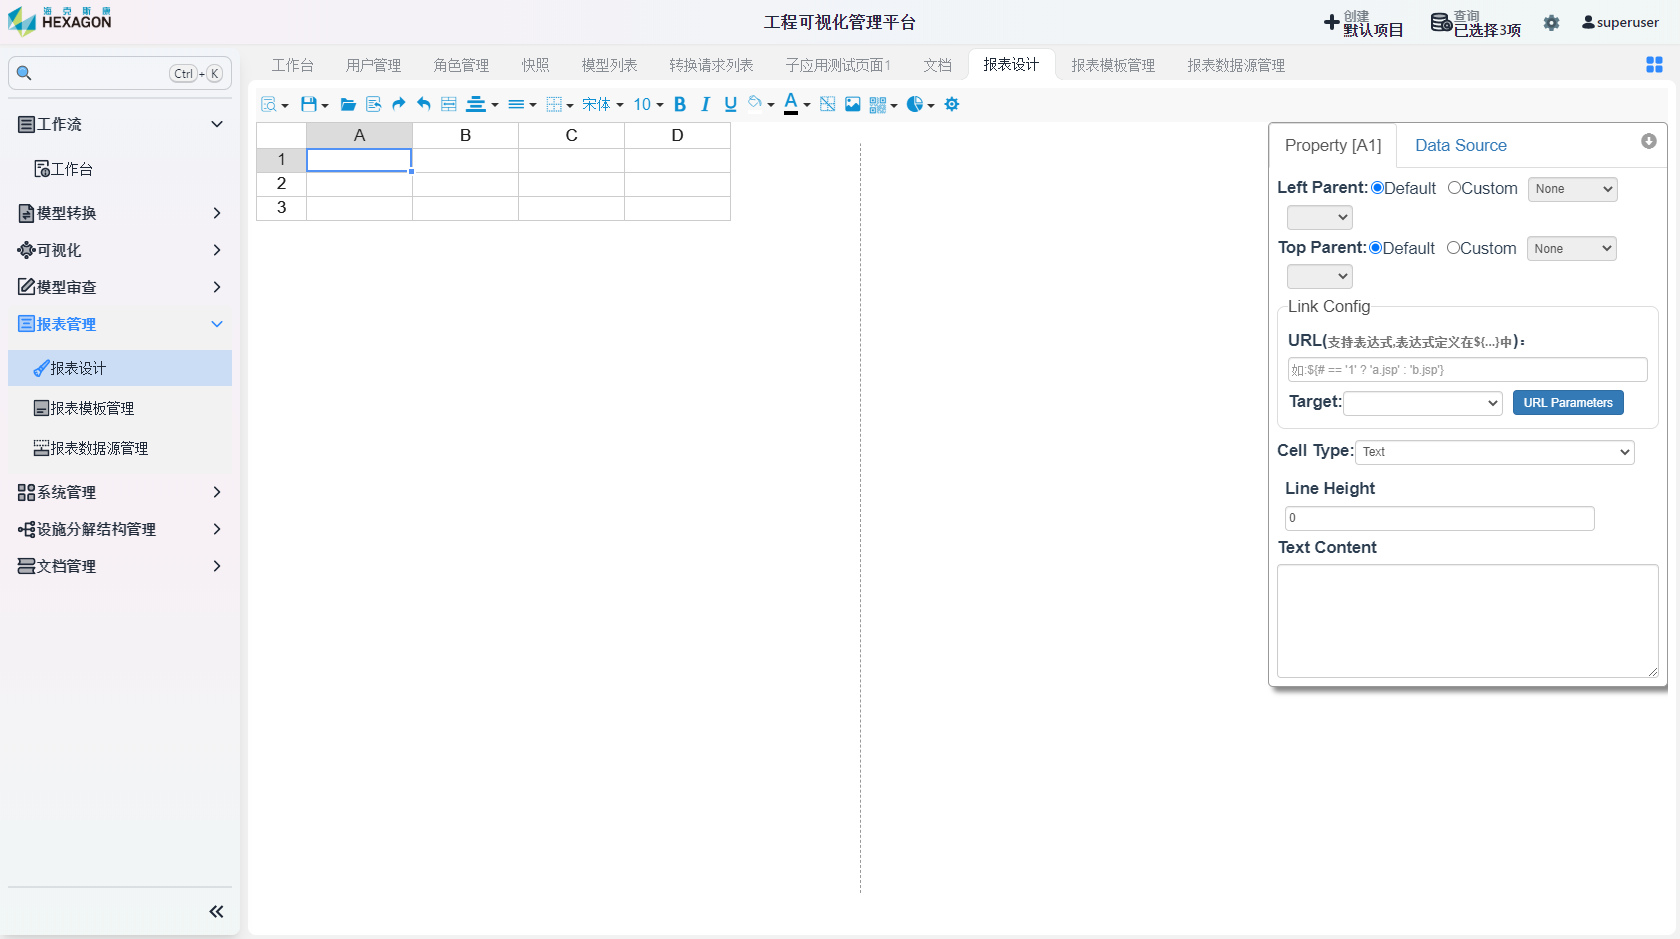
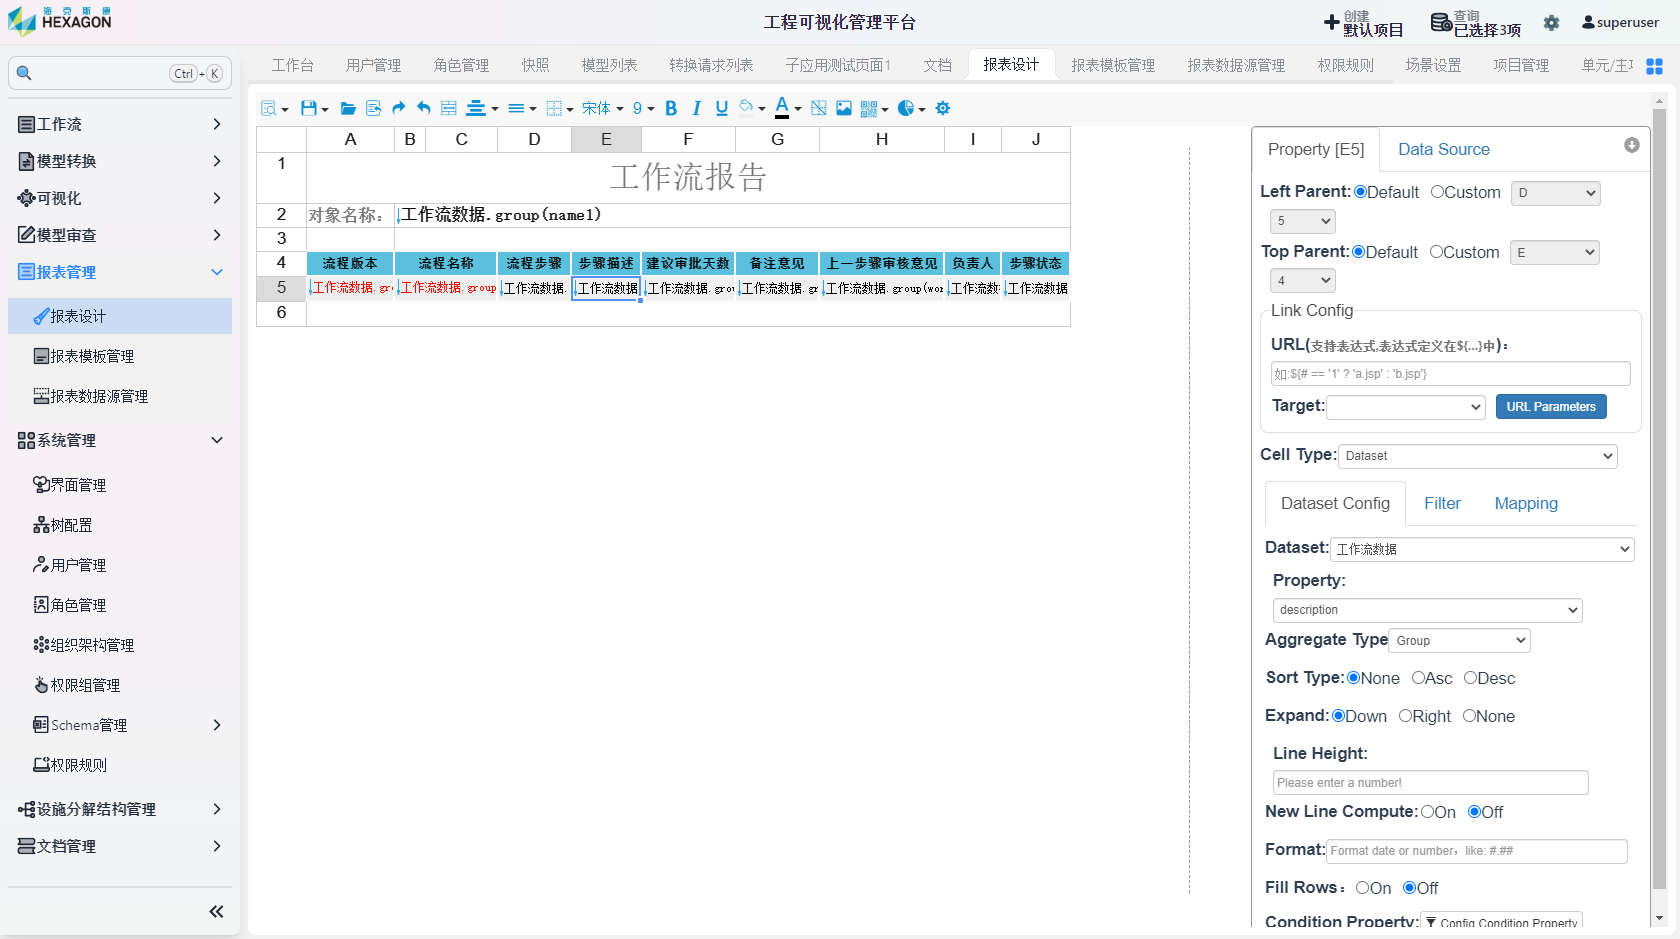
补充报告&报表

diff --git a/报告&报表引擎/用户手册.html b/报告&报表引擎/用户手册.html
@@ -598,7 +598,7 @@ header, .context-menu, .megamenu-content, footer{
 <p align="center">
     <a href="http://imc.smartsolutions.com.cn/login"></a>
     <a href="http://imc.smartsolutions.com.cn/login"><img src="https://img.shields.io/badge/IMC-v3.5.0-brightgreen.svg"></a>	
-</p><h2 id='报表管理模块'><span>报表管理模块</span></h2><h3 id='报表设计'><span>报表设计</span></h3><p><img src="../img/报表设计入口.png" referrerpolicy="no-referrer"></p><p><span>点击</span><code>报表管理</code><span>-</span><code>报表设计</code></p><p><img src="../img/保存报表.png" referrerpolicy="no-referrer"></p><p><span>完成后点击左上角保存按钮，填写保存信息</span></p><h3 id='报表模板管理'><span>报表模板管理</span></h3><p><img src="../img/报表模板.png" referrerpolicy="no-referrer"></p><p><span>保存的报表设计在此处进行管理，左键打开查看，右键编辑或删除</span></p><h3 id='报表数据源管理'><span>报表数据源管理</span></h3><p><img src="../img/报表数据源.png" referrerpolicy="no-referrer"></p><p><span>共有4个数据源：外部数据源、内部数据源、引擎数据源和适配数据源，右键数据源以新增数据集，右键数据集以新建字段或删除数据集，右键字段可选删除字段。</span></p></div></div>
+</p><h2 id='报表管理模块'><span>报表管理模块</span></h2><h3 id='报表设计'><span>报表设计</span></h3><p><img src="../img/报表设计入口.png" referrerpolicy="no-referrer"></p><p><span>点击</span><code>报表管理</code><span>-</span><code>报表设计</code></p><p><img src="../img/单元格配置.png" referrerpolicy="no-referrer"></p><p><img src="../img/单元格配置2.png" referrerpolicy="no-referrer"></p><p><span>点击单元格，在界面右侧可对单元格进行属性配置和数据源配置</span></p><p><img src="../img/单元格配置3.png" referrerpolicy="no-referrer"></p><p><span>右键可展开表格操作菜单</span></p><p><img src="../img/保存报表.png" referrerpolicy="no-referrer"></p><p><span>完成后点击左上角保存按钮，填写保存信息</span></p><h3 id='报表模板管理'><span>报表模板管理</span></h3><p><img src="../img/报表模板.png" referrerpolicy="no-referrer"></p><p><span>保存的报表设计在此处进行管理，左键打开查看，右键编辑或删除</span></p><h3 id='报表数据源管理'><span>报表数据源管理</span></h3><p><img src="../img/报表数据源.png" referrerpolicy="no-referrer"></p><p><span>共有4个数据源：外部数据源、内部数据源、引擎数据源和适配数据源。</span></p><p><span>右键数据源以新增数据集，右键数据集以新建字段或删除数据集，右键字段可选删除字段。</span></p></div></div>
 
 <script>(function(){var e=document.body.parentElement,t=[],n=null,i=document.body.classList.contains("typora-export-collapse-outline"),r=function(e,t,n){document.addEventListener(e,function(e){if(!e.defaultPrevented)for(var i=e.target;i&&i!=this;i=i.parentNode)if(i.matches(t)){!1===n.call(i,e)&&(e.preventDefault(),e.stopPropagation());break}},!1)};function o(){return e.scrollTop}r("click",".outline-expander",function(e){var t=this.closest(".outline-item-wrapper").classList;return t.contains("outline-item-open")?t.remove("outline-item-open"):t.add("outline-item-open"),d(),!1}),r("click",".outline-item",function(e){var t=this.querySelector(".outline-label");if(location.hash="#"+t.getAttribute("href"),i){var n=this.closest(".outline-item-wrapper").classList;n.contains("outline-item-open")||n.add("outline-item-open"),c(),n.add("outline-item-active")}});var a,s,l=function(){var e=o();n=null;for(var i=0;i<t.length&&t[i][1]-e<60;i++)n=t[i]},c=function(){document.querySelectorAll(".outline-item-active").forEach(e=>e.classList.remove("outline-item-active")),document.querySelectorAll(".outline-item-single.outline-item-open").forEach(e=>e.classList.remove("outline-item-open"))},d=function(){if(n){c();var e=document.querySelector('.outline-label[href="#'+(CSS.escape?CSS.escape(n[0]):n[0])+'"]');if(e)if(i){var t=e.closest(".outline-item-open>ul>.outline-item-wrapper");if(t)t.classList.add("outline-item-active");else{for(var r=(e=e.closest(".outline-item-wrapper")).parentElement.closest(".outline-item-wrapper");r;)r=(e=r).parentElement.closest(".outline-item-wrapper");e.classList.add("outline-item-active")}}else e.closest(".outline-item-wrapper").classList.add("outline-item-active")}};window.addEventListener("scroll",function(e){a&&clearTimeout(a),a=setTimeout(function(){l(),d()},300)});var u=function(){s=setTimeout(function(){!function(){t=[];var e=o();document.querySelector("#write").querySelectorAll("h1, h2, h3, h4, h5, h6").forEach(n=>{var i=n.getAttribute("id");t.push([i,e+n.getBoundingClientRect().y])})}(),l(),d()},300)};window.addEventListener("resize",function(e){s&&clearTimeout(s),u()}),u()})();</script></body>
 </html>

diff --git a/报告&报表引擎/用户手册.md b/报告&报表引擎/用户手册.md
@@ -15,7 +15,13 @@
 
 ![](../img/单元格配置.png)
 
+![](../img/单元格配置2.png)
+
 点击单元格，在界面右侧可对单元格进行属性配置和数据源配置
+
+![](../img/单元格配置3.png)
+
+右键可展开表格操作菜单
 
 ![](../img/保存报表.png)
 
